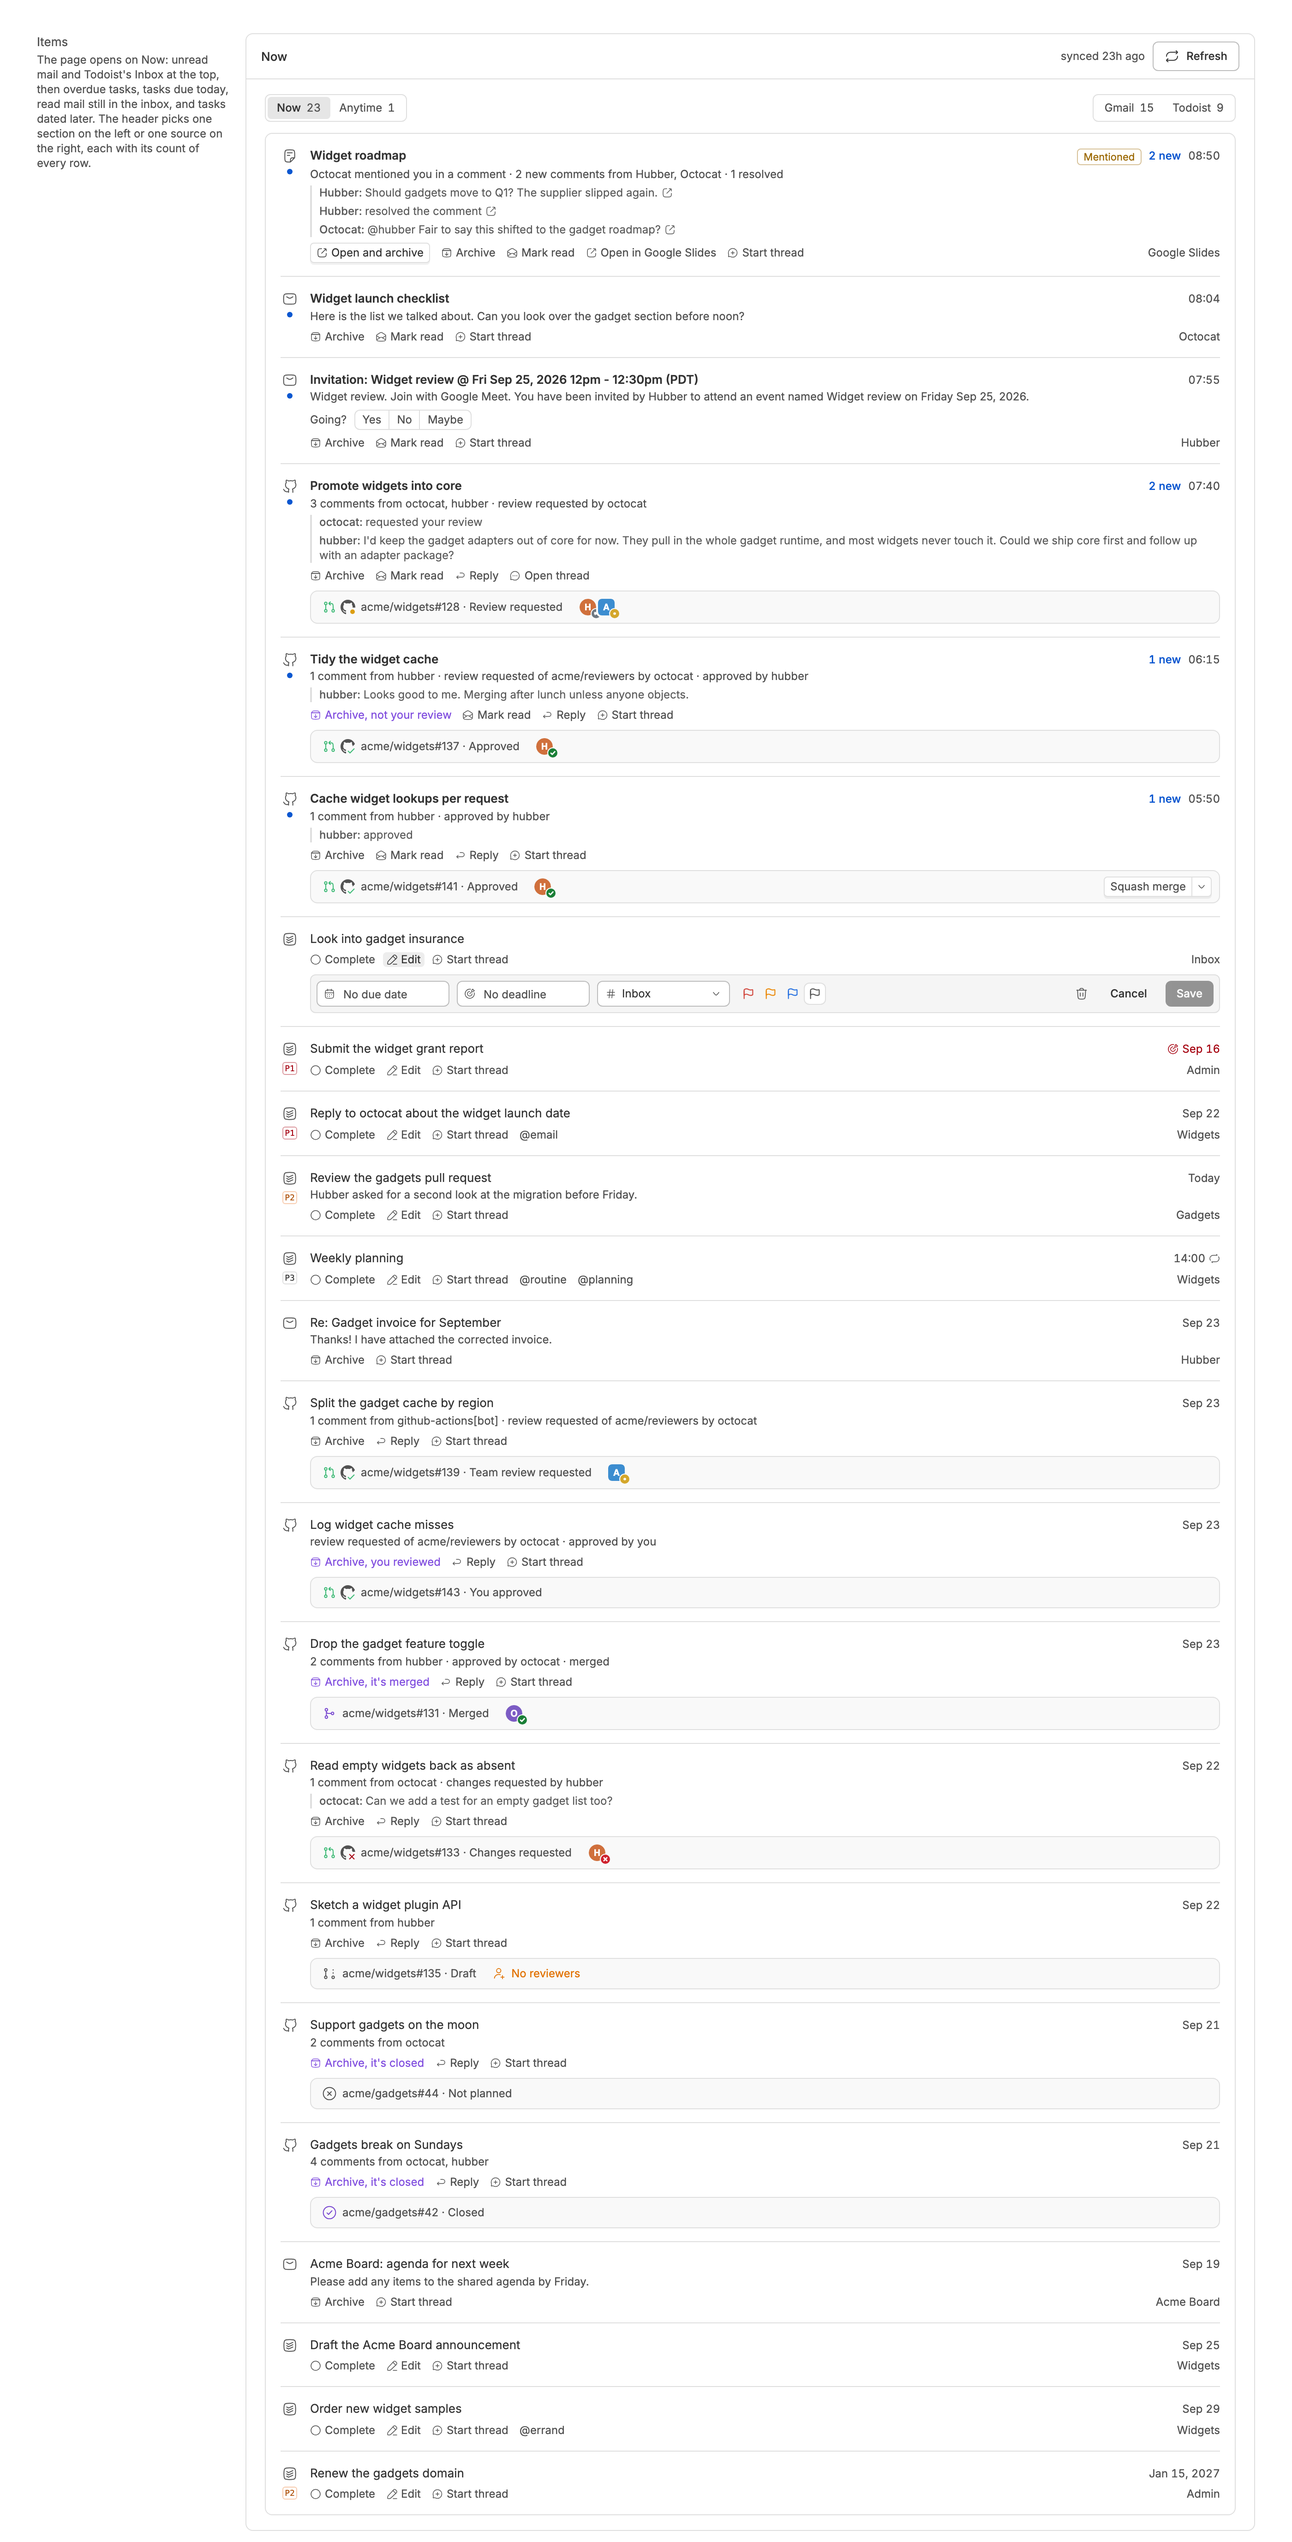
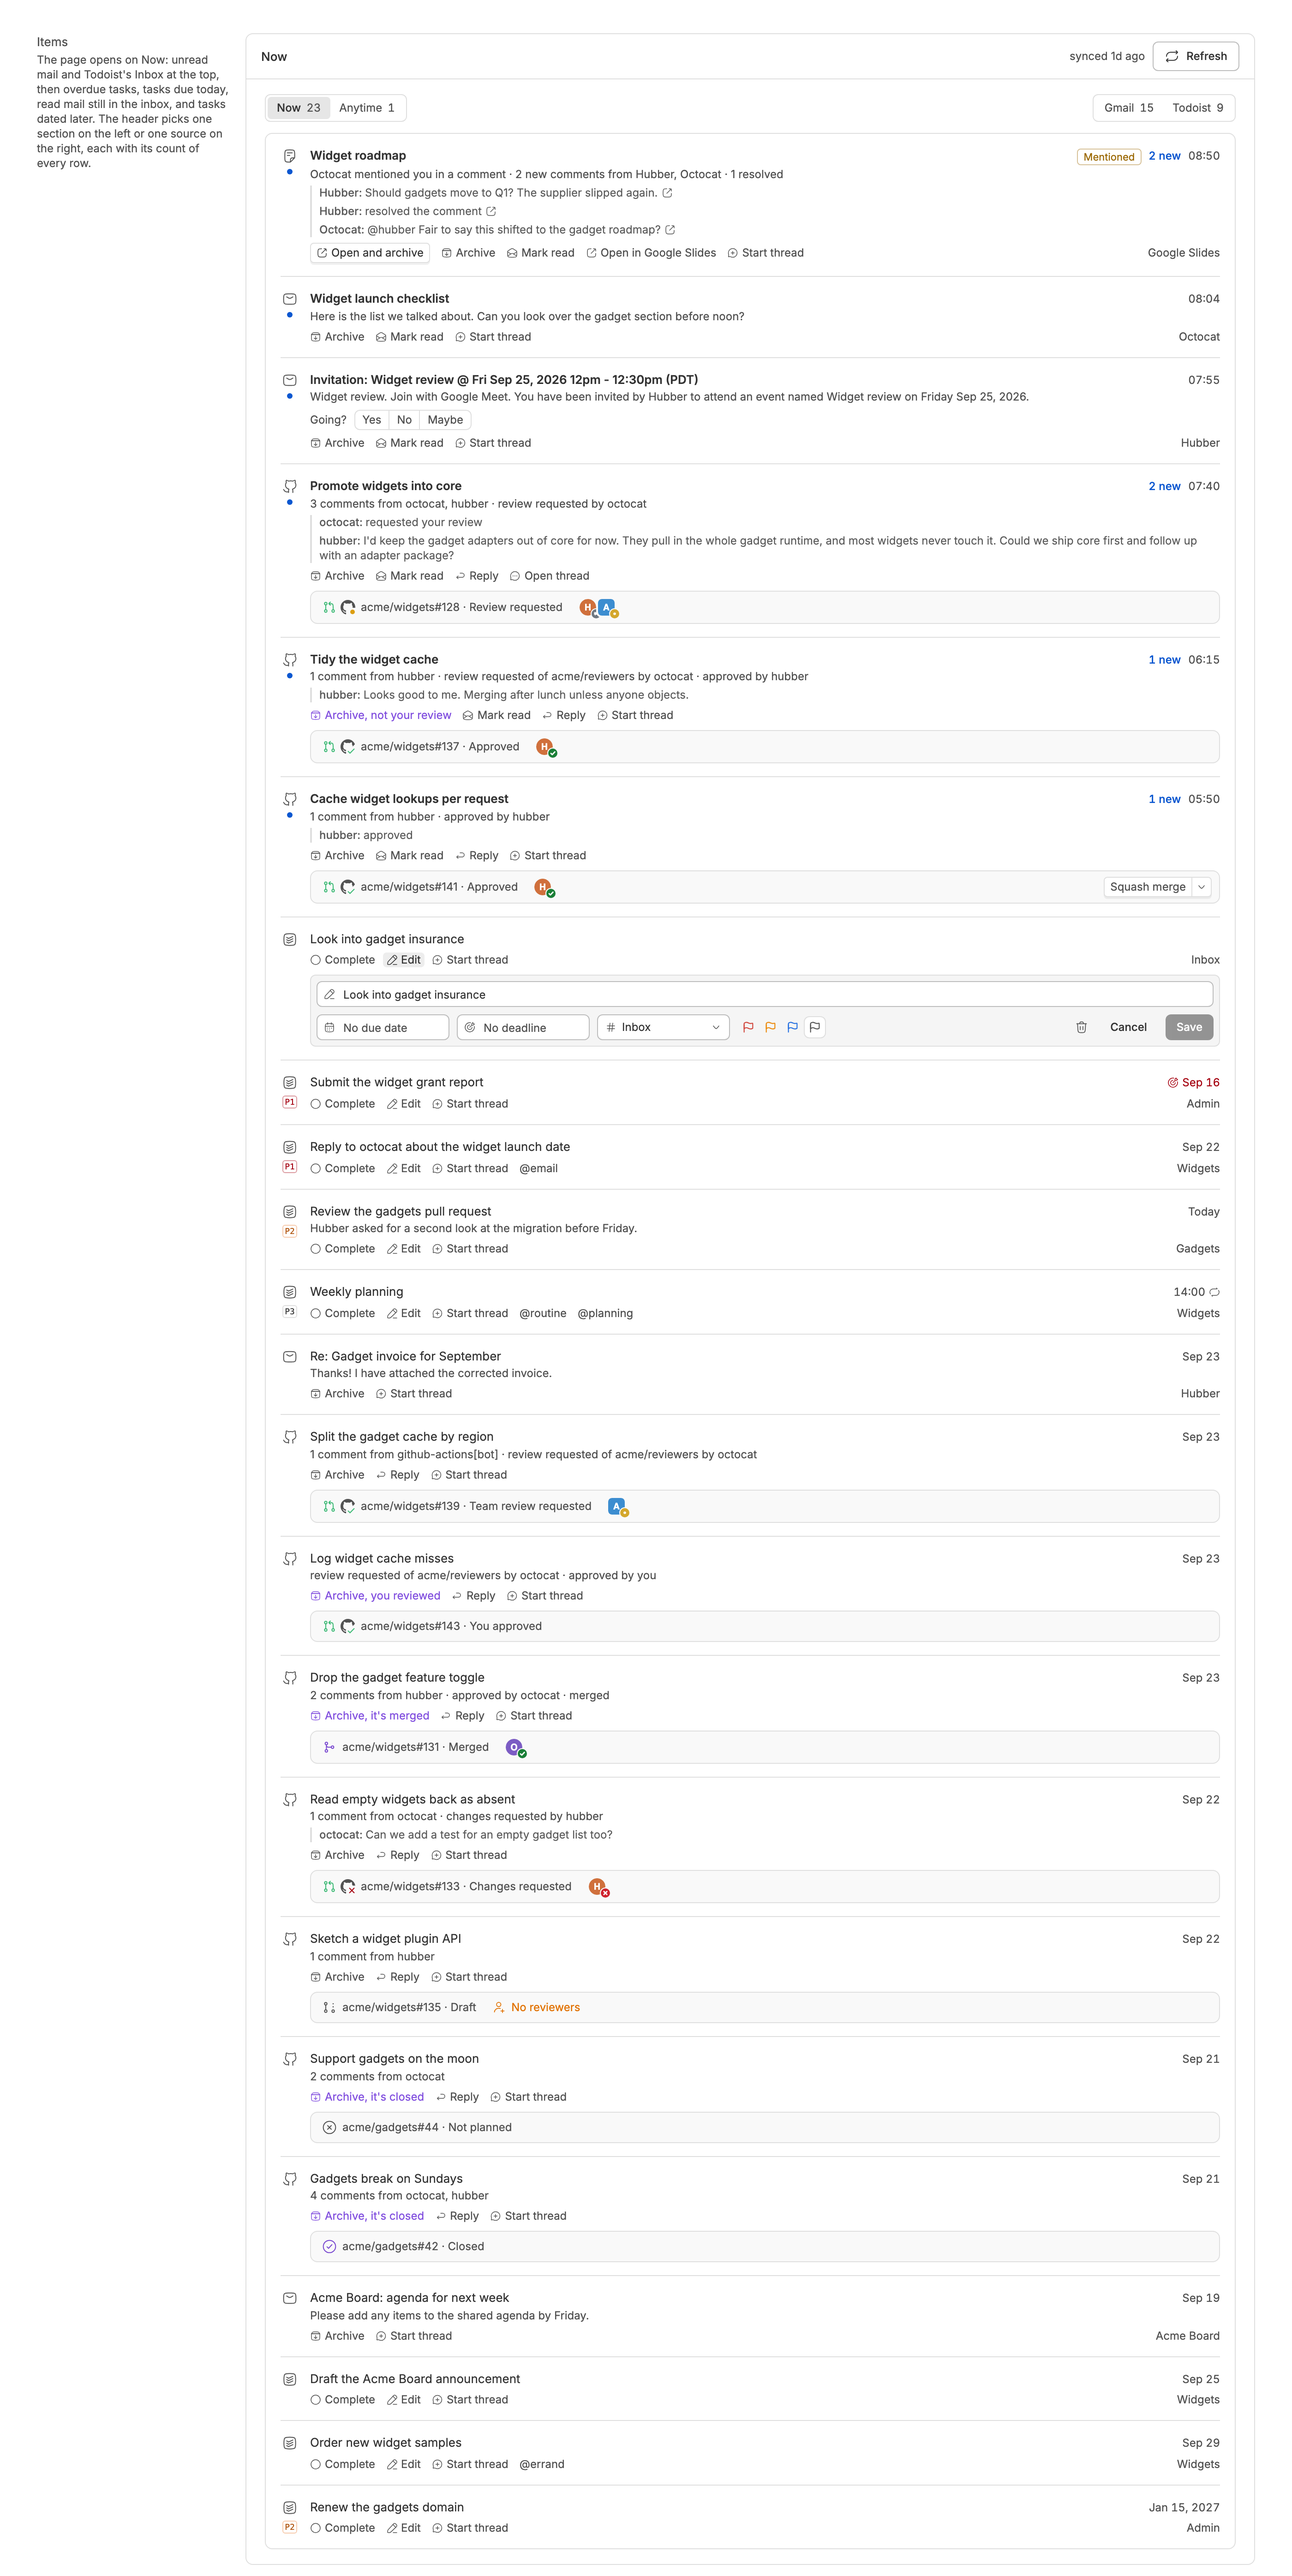
65b2407 Rename a Todoist task from Now's edit strip
danielbachhuber/bb-plugins@65b240753ba534cc796135599674157482737b36

Captured with uncommitted changes in the bb-plugins checkout.

diff --git a/now/README.md b/now/README.md
@@ -2,7 +2,7 @@
 
 # Now
 
-One list of what needs doing now, from Todoist and your Gmail inbox, with GitHub notifications gathered per pull request or issue, showing each pull request's reviewers, and Google Docs comments per document. Complete, reschedule, reprioritize, move, or delete tasks, archive email or mark it read, answer calendar invitations, reply on GitHub, merge your own pull requests, and start a thread from any row.
+One list of what needs doing now, from Todoist and your Gmail inbox, with GitHub notifications gathered per pull request or issue, showing each pull request's reviewers, and Google Docs comments per document. Complete, rename, reschedule, reprioritize, move, or delete tasks, archive email or mark it read, answer calendar invitations, reply on GitHub, merge your own pull requests, and start a thread from any row.
 
 Source: [`bb-plugin-now`](https://github.com/danielbachhuber/bb-plugins/tree/main/bb-plugin-now)
 
